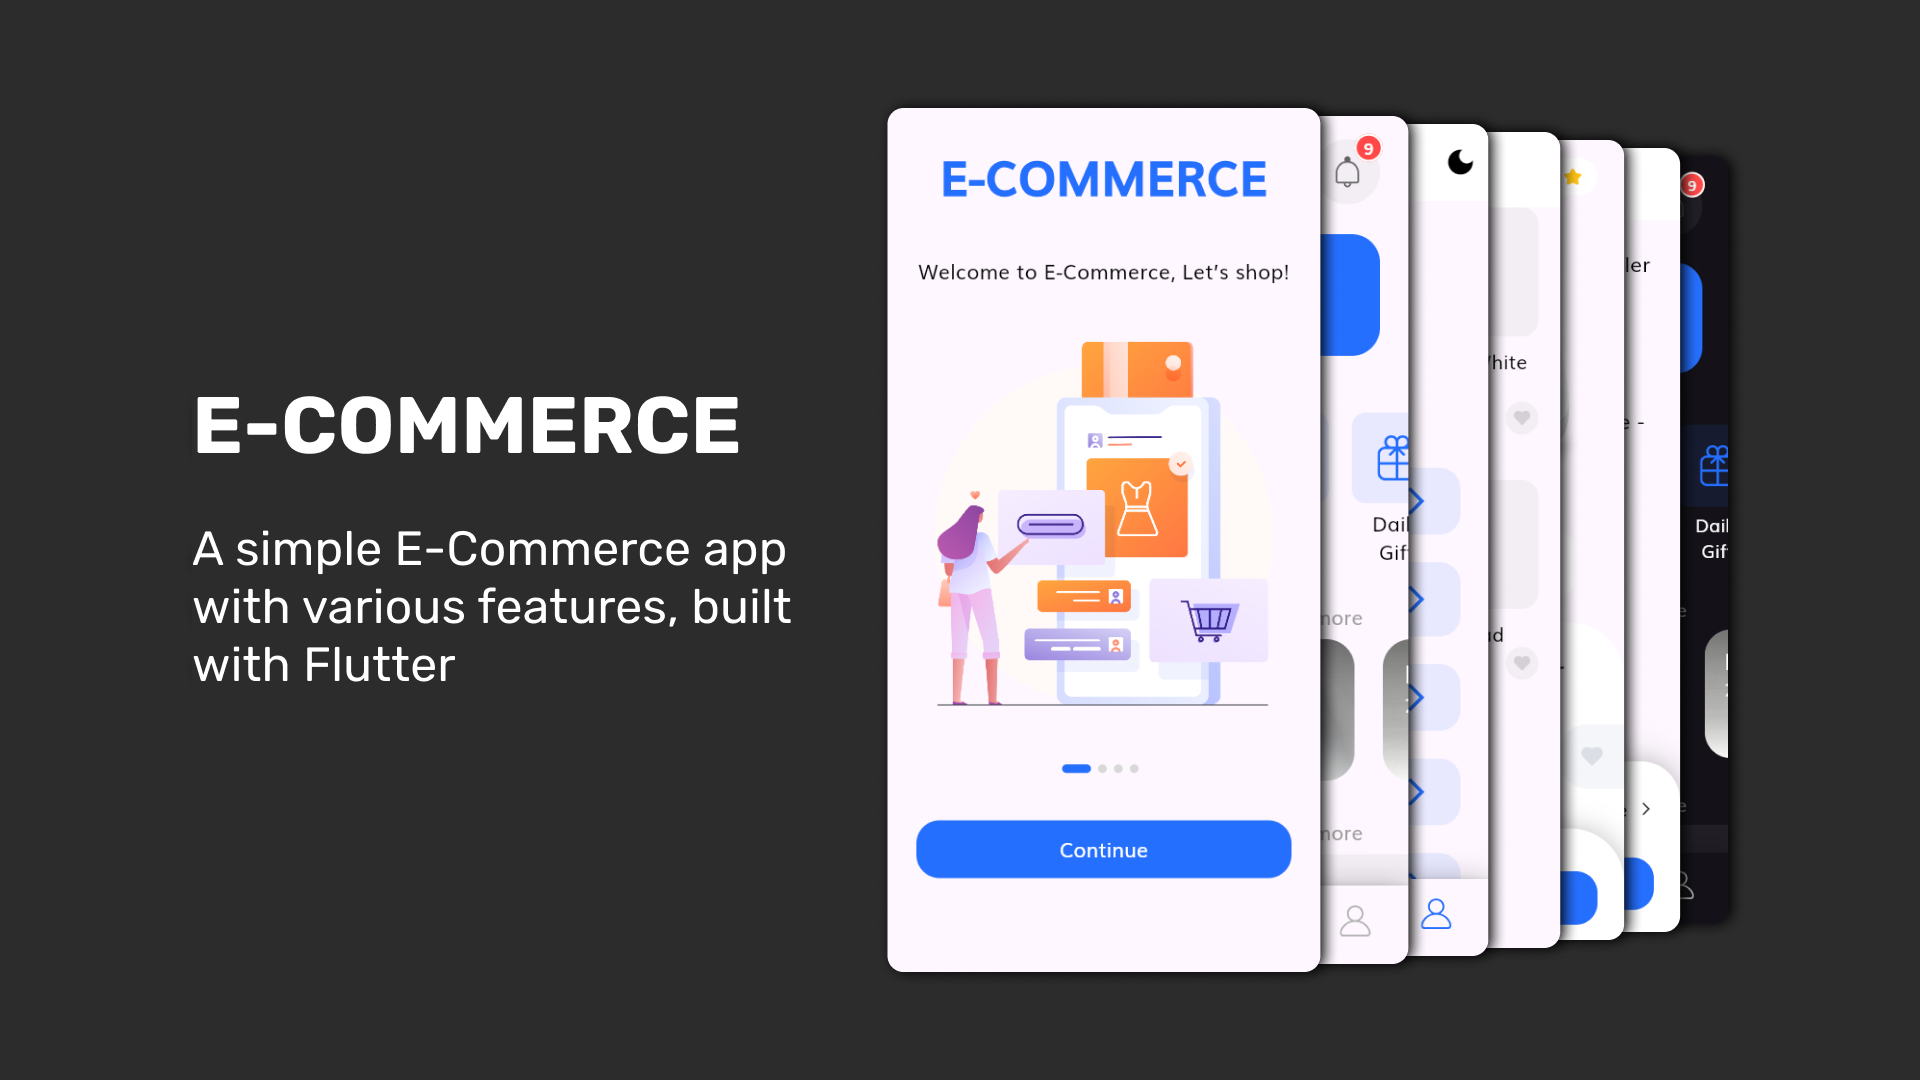
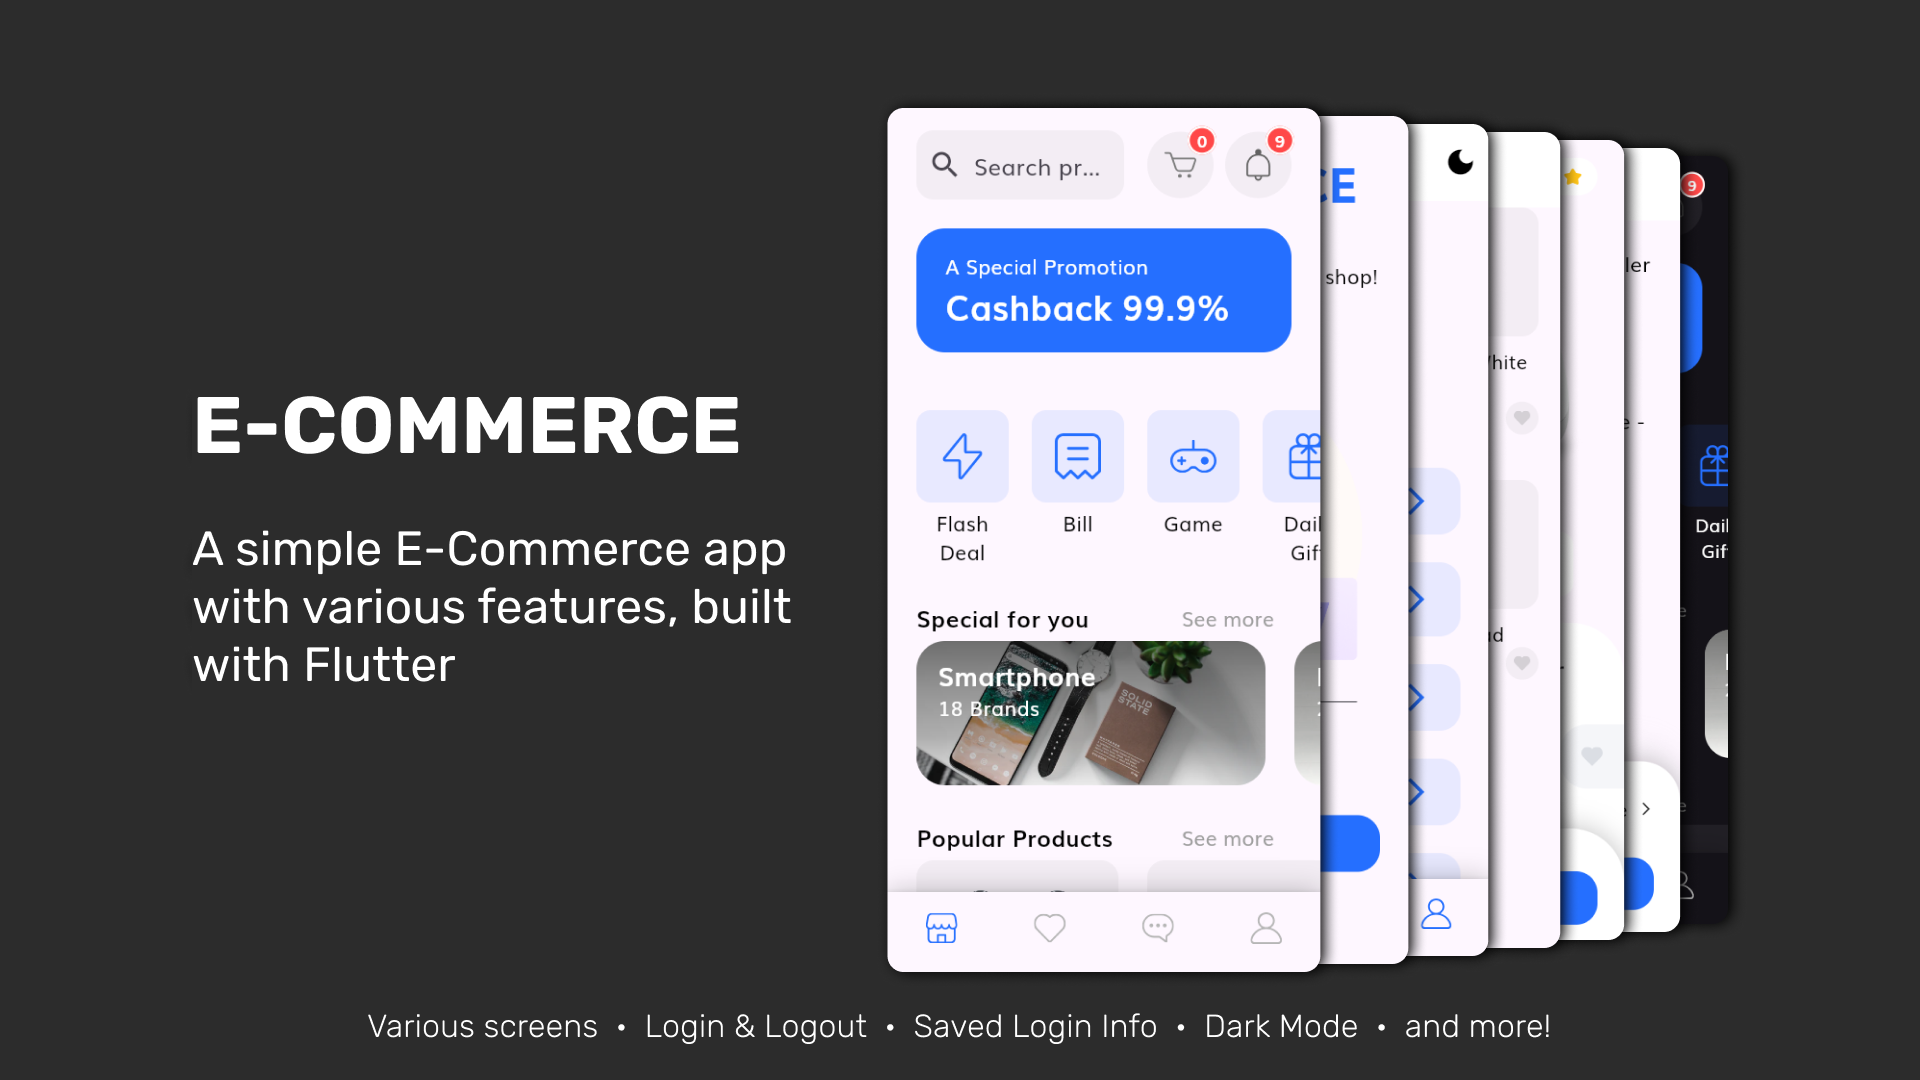
Modified assets/screenshots/flyer.png and README.md

diff --git a/README.md b/README.md
@@ -1,3 +1,7 @@
+Cloned from [E-commerce-Complete-Flutter-UI](https://github.com/abuanwar072/E-commerce-Complete-Flutter-UI/tree/cb439a3e6712a6149e532aa077ab2aa48a613933) ([commit cb439a3](https://github.com/abuanwar072/E-commerce-Complete-Flutter-UI/tree/cb439a3e6712a6149e532aa077ab2aa48a613933)) by [abuanwar072](https://github.com/abuanwar072)
+***
+
+<br>
 <img src="assets/screenshots/flyer.png" style="width:100%;"/>
 <div style="height:0.5rem;"></div>
 <div style="display:flex;flex-direction:row;justify-content:stretch;align-items:start;gap:1rem;">
@@ -30,6 +34,3 @@
         <img src="assets/screenshots/7.png" style="width:16rem;"/>
     </div>
 </div>
-<br>
-
-Forked (or cloned) from [E-commerce-Complete-Flutter-UI](https://github.com/abuanwar072/E-commerce-Complete-Flutter-UI/tree/cb439a3e6712a6149e532aa077ab2aa48a613933) ([commit cb439a3](https://github.com/abuanwar072/E-commerce-Complete-Flutter-UI/tree/cb439a3e6712a6149e532aa077ab2aa48a613933)) by [abuanwar072](https://github.com/abuanwar072)
